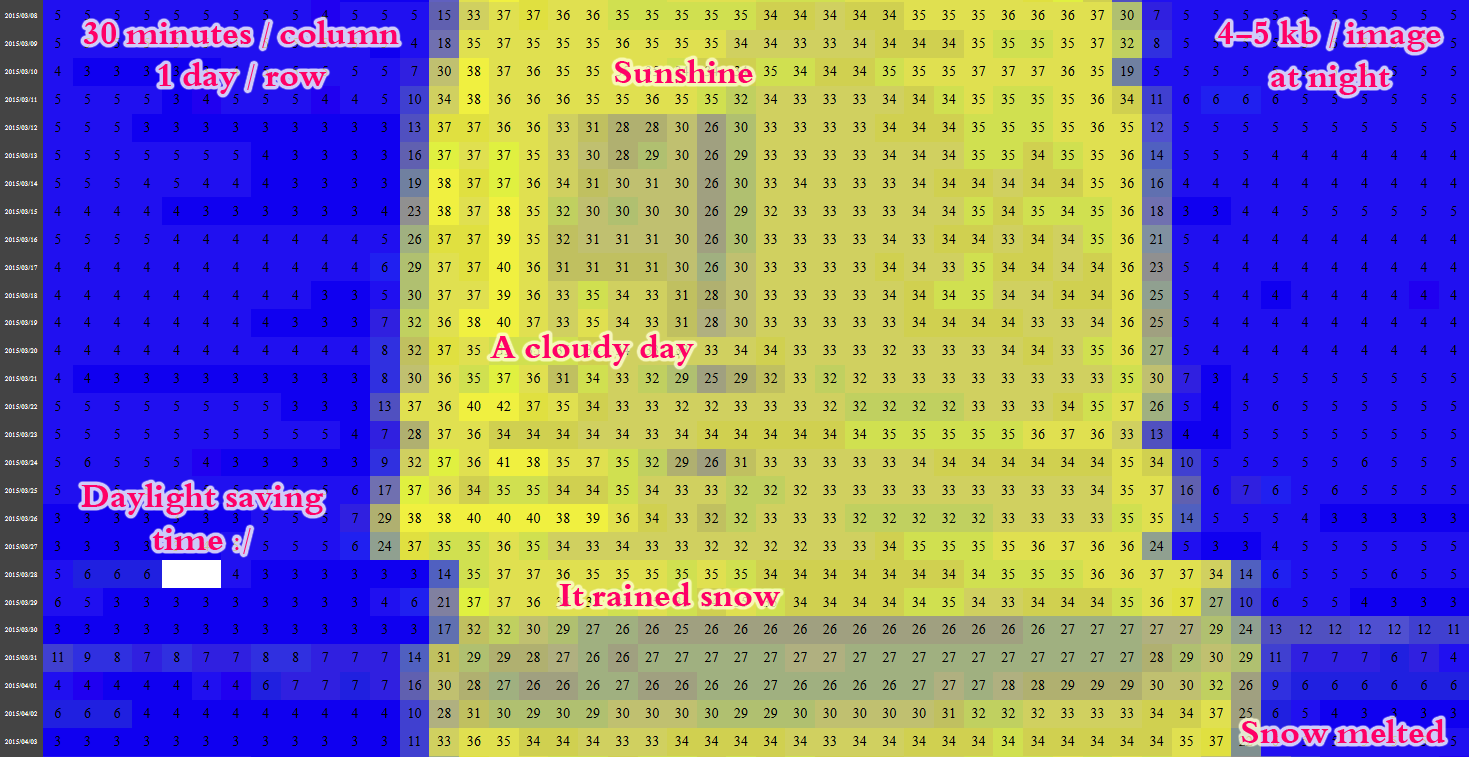
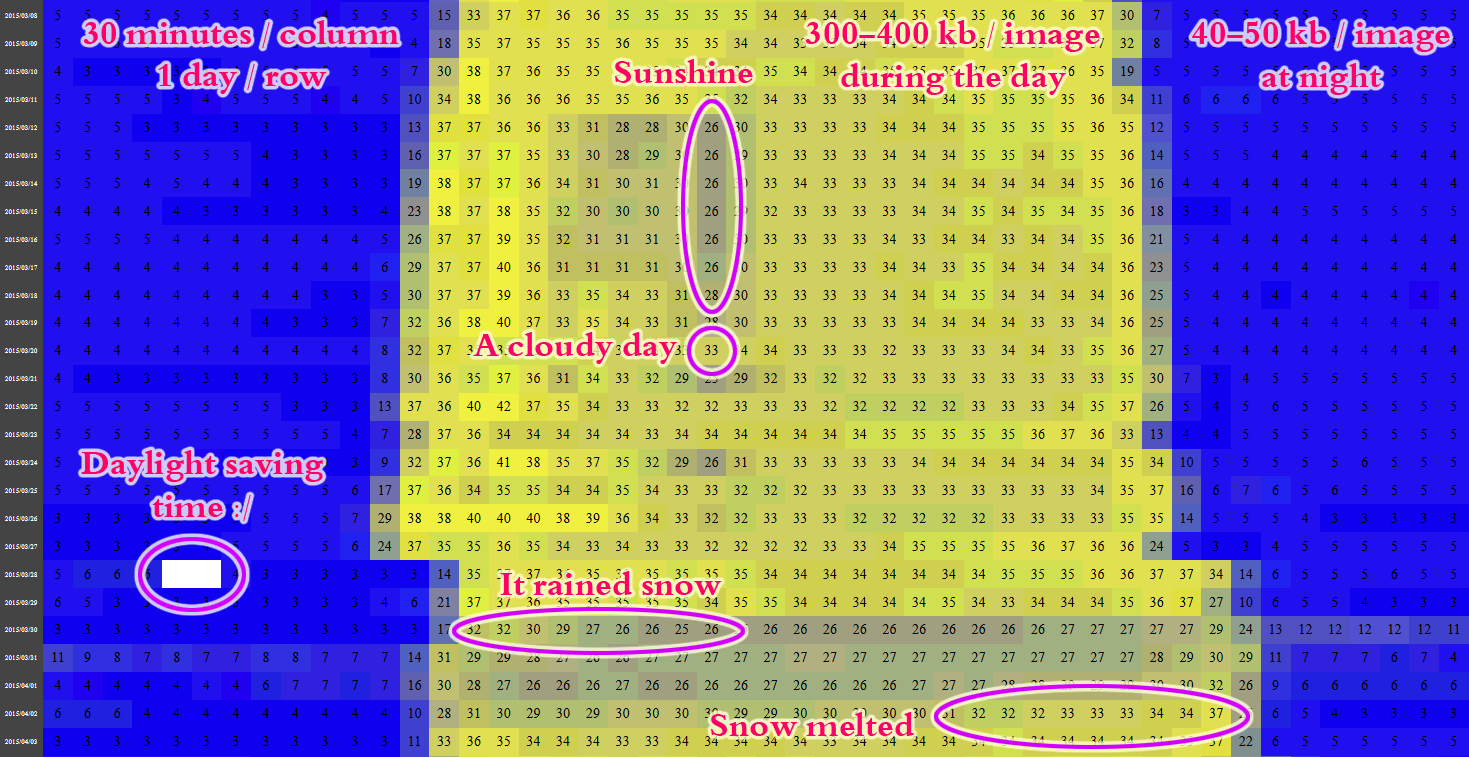
Readme tweaks

diff --git a/readme.md b/readme.md
@@ -12,27 +12,27 @@ This project is not and will not be public on the internet due to privacy concer
 Usage
 --------
 At simplest just clone the repo, change a few paths and put bin/grabFrame.sh into crontab.
-PHP API should be easy to get up and running as well. 1280x720 JPGs are 3-4 kb at night and up-to
-40 kb during the day, depending on the season it is 300 - 350 Mb / day if you capture once every minute.
+PHP API should be easy to get up and running as well. 1280x720 JPGs are 30-40 kb at night and up-to
+400 kb during the day, depending on the season it is 300 - 350 Mb / day if you capture once every minute.
 
 URL examples
 --------
-/images/2015-04-06-05-45-01
+- **/images/2015-04-06-05-45-01**
 The image at time, Nginx rewrites it as /images/2015-04-06/05-45-01.jpg
 
-/image_gen?recent
+- **/image_gen?recent**
 The most recently captured image
 
-/image_gen/07.jpg?w=1280&grid=5
+- **/image_gen/07.jpg?w=1280&grid=5**
 Tiled last 25 (5 x 5) images at 7am, rendered to a 1280 x 720 size.
 ![7am](samples/7am.jpg)
 
-/image_gen/1d.jpg?w=1280&grid=8&skip=30w
+- **/image_gen/1d.jpg?w=1280&grid=8&skip=30w**
 Tiled 64 (8 x 8) images throughout one day 30 weeks ago, 22.5 minutes / image.
 ![1d](samples/1d.jpg)
 
-/filesizes.html
-Calls the filesize API and renders the outcome as a HTML table.
+- **/filesizes.html**
+Calls the filesize API and shows the response as a HTML table.
 ![filesizes](samples/filesizes.png)
 
 Supported time syntaxes (case-insensitive)
@@ -48,7 +48,9 @@ So currently accepted strings are "[0-9]+[ihdwm]", no decimal part is allowed.
 API examples
 --------
 Median file sizes at each hour, first three columns are the year, month and day. This is trivial to load in for example Matlab.
-/api/fileSizes.txt?dt=1
+
+**/api/fileSizes.txt?dt=1**
+
 ```
   -1 -1 -1   0.00   1.00   2.00   3.00   4.00   5.00   6.00   7.00   8.00   9.00  10.00  11.00  12.00  13.00  14.00  15.00  16.00  17.00  18.00  19.00  20.00  21.00  22.00  23.00
 2015 03 26  52.20  32.20  31.50  31.20  42.20  53.90 176.80 380.60 402.70 389.10 374.80 332.90 317.80 330.40 324.80 321.70 321.70 327.40 329.30 349.80  97.40  53.20  36.90  32.40
@@ -66,8 +68,10 @@ Median file sizes at each hour, first three columns are the year, month and day.
 Same as above but in a JSON format for an AJAX call, this also lists filenames so that image URLs can be easily generated on the UI.
 Note that these are in server's timezone but filenames are in UTC.
 
-/api/fileSizes.json?dt=1
-```{
+**/api/fileSizes.json?dt=1**
+
+```json
+{
     "metadata": {
         "times": [
             "00.00h",
